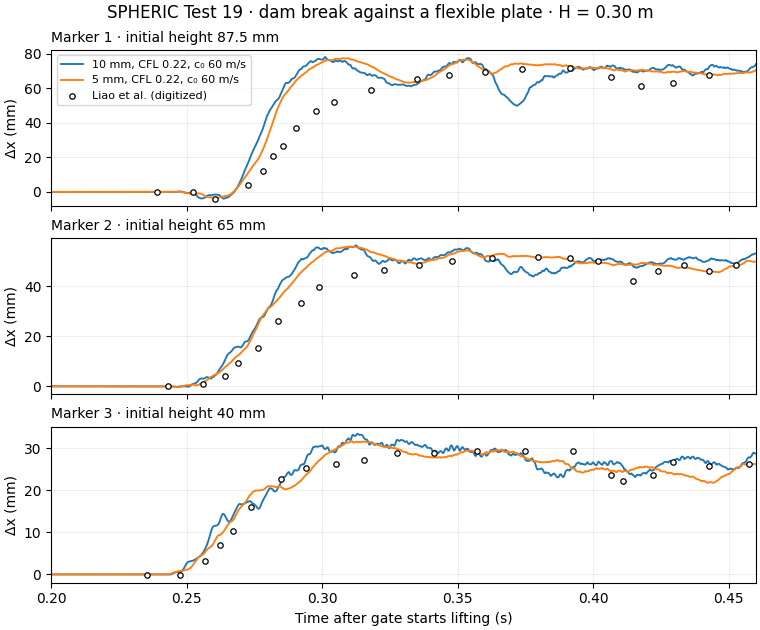
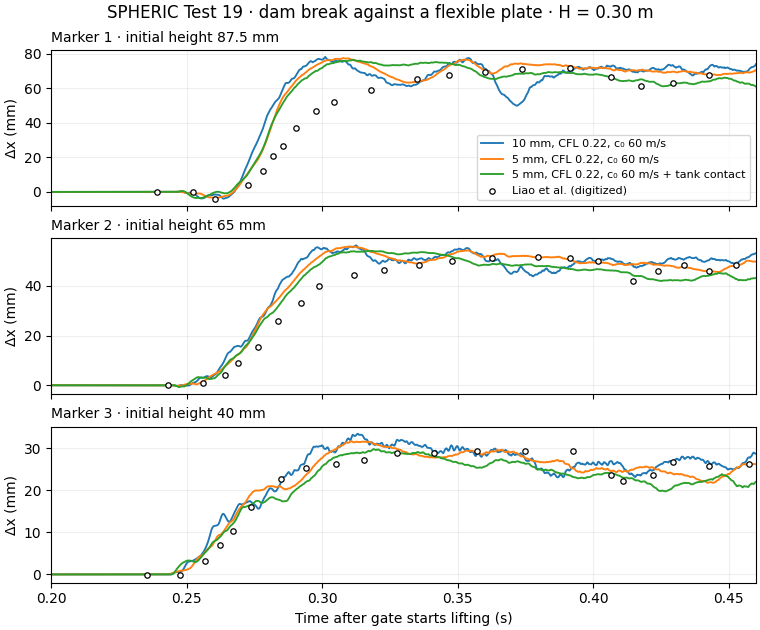
Merge #1145 (m) via merge-master

diff --git a/benchmarks/spheric19/README.md b/benchmarks/spheric19/README.md
@@ -104,3 +104,7 @@ of solid-wall penetration. There is also a genuine floor crossing before
 the main bending response: at t = 0.26858 s a particle first exceeded 0.25
 particle spacings below the floor near x = 0.620 m. The output records both
 the first such envelope excursion and the location of the largest one.
+
+### Fixed-wall contact comparison
+
+With normal contact enabled at 5 mm spacing, the three marker errors become 12.96 mm (18.00%), 5.35 mm (10.37%), 3.10 mm (10.60%). The total absolute contact impulse on the fluid is 13.03 N·s per metre of span. The maximum trial excursion is 0.079 mm and the maximum after contact is 0.000 mm. The wall constraint changes the response at all markers. It does not establish experimental agreement. The [paired experimental and computed displacements](comparison.csv) include both spacings and the half-CFL control at their original experimental sample times.
